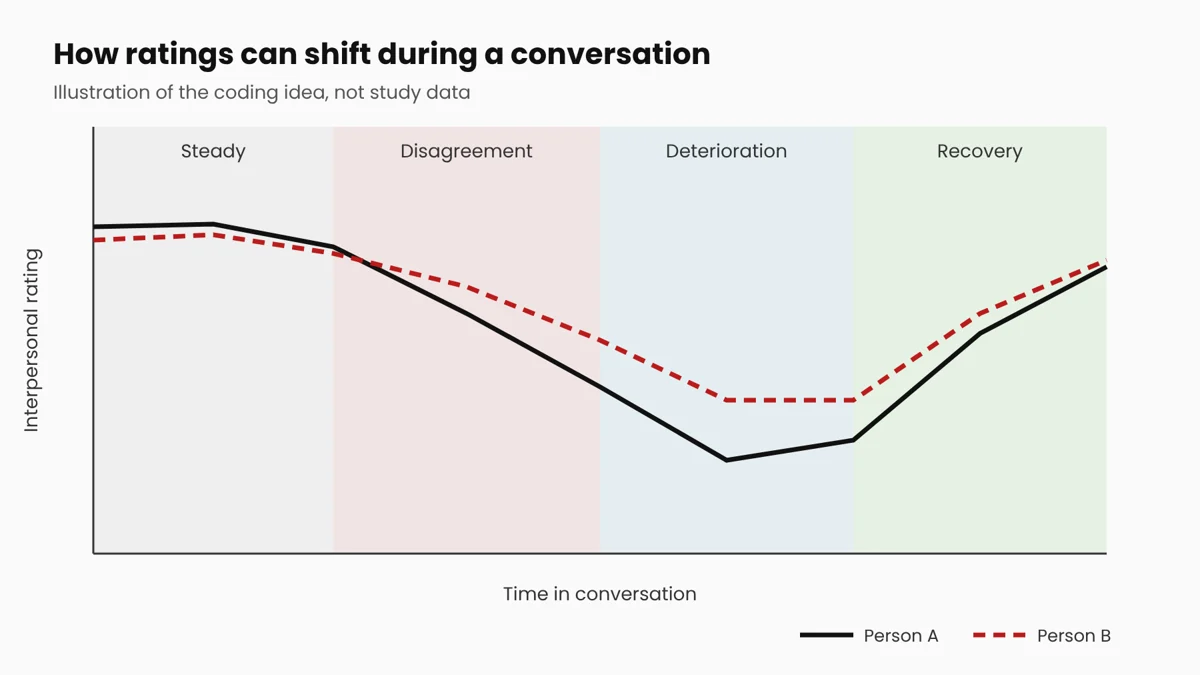
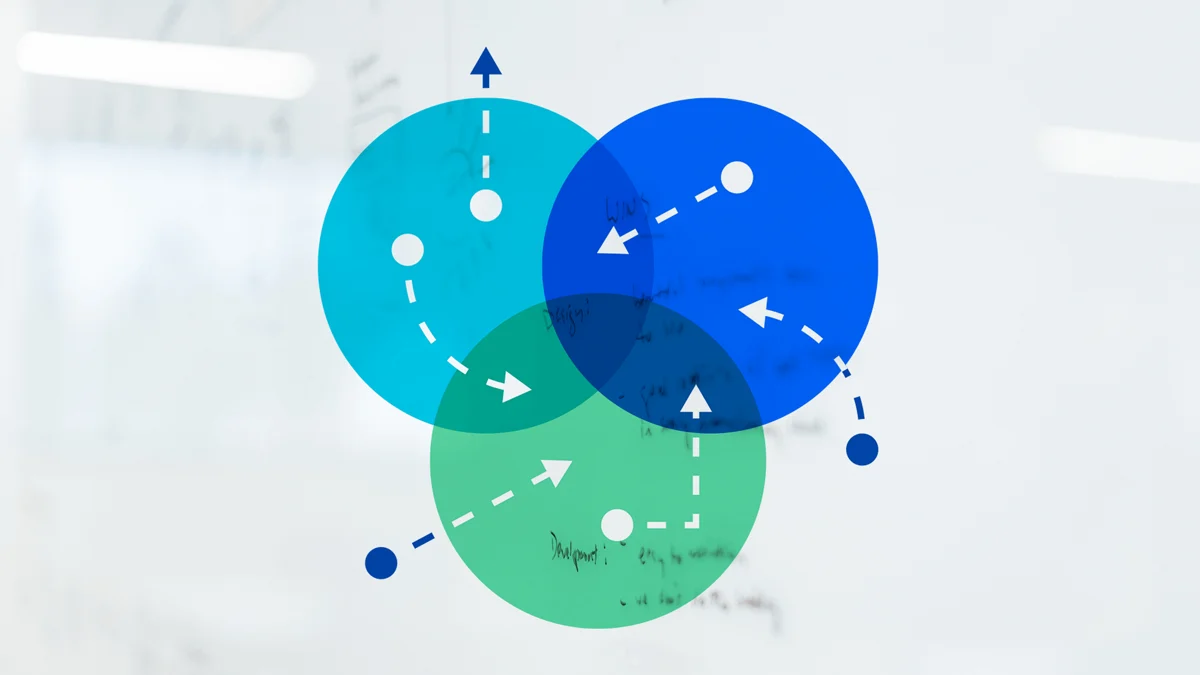
Add supplied images to experience cards (#30)

diff --git a/index.html b/index.html
@@ -17,7 +17,7 @@
 <link rel="preconnect" href="https://fonts.googleapis.com">
 <link rel="preconnect" href="https://fonts.gstatic.com" crossorigin>
 <link rel="stylesheet" href="https://fonts.googleapis.com/css2?family=Poppins:wght@300;400;500;600&amp;display=swap">
-<link rel="stylesheet" href="style.css?v=20261123s">
+<link rel="stylesheet" href="style.css?v=20261123t">
 <script type="application/ld+json">{"@context":"https://schema.org","@type":"Person","name":"Jemimah Osei","url":"https://jemimahosei.com/","image":"https://jemimahosei.com/assets/img/jemimah.webp","jobTitle":"Software engineer","alumniOf":{"@type":"CollegeOrUniversity","name":"Cornell University"},"sameAs":["https://www.linkedin.com/in/jemimaho/","https://github.com/Jemimahosei","https://devpost.com/Jemimahosei"]}</script>
 </head>
 <body>
@@ -117,7 +117,7 @@
 
 <section id="experience" class="sec">
 <h2 class="h2">My experience</h2>
-<div class="jobs"><div class="card job"><div class="jshot has-img"><img src="assets/img/hello.webp" width="900" height="540" loading="lazy" decoding="async" alt="The HELLO voucher robot on a small round table in the Cornell café lobby, with its tablet, printer and camera"></div><h3>Research intern</h3><div class="where">Cornell Tech, InterPlay Research Studio, Summer 2026</div><div class="bd"><p>On HELLO, I reviewed and annotated recorded interactions and wrote a Python script to extract relevant video clips using logged visits. This made it easier for researchers to navigate hours of footage and focus on specific interactions.</p><details class="rm"><summary><span class="o">Read more</span><span class="c">Read less</span></summary><p>HELLO is a research project investigating what happens when AI systems make mistakes during human interactions and how those interactions can be repaired. The team deployed a conversational robot in a public café setting to study how people's expectations change over repeated interactions, particularly when the robot misunderstands speech, fails to recognize someone, or responds in an unexpected way.</p></details></div></div><div class="card job"><div class="jshot has-img"><img src="assets/img/conflict-triad.webp" width="900" height="506" loading="lazy" decoding="async" alt="Illustrated chart of two people's ratings moving through steady, disagreement, deterioration and recovery phases"></div><h3>Research assistant, Interpersonal Perception and AI Mediation</h3><div class="where">Cornell University, InterPlay Research Studio, Fall 2026</div><div class="bd"><p>I review selected interactions and help develop a coding framework that connects interpersonal rating patterns to observable conversational behaviors. I'm also exploring how language models and multimodal features can help identify these patterns more systematically.</p><details class="rm"><summary><span class="o">Read more</span><span class="c">Read less</span></summary><p>I'm working on research exploring how AI can recognize and eventually help mediate conflict during group conversations. Our team studies how people's perceptions of one another change during two person and three person interactions. We use interpersonal rating data to identify patterns such as disagreement, deterioration, and recovery, then examine the corresponding video, audio, and transcripts to understand what happened during those moments. The longer term goal is to use this research to develop an AI mediator that can recognize emerging conflict and support more productive conversations.</p></details></div></div><div class="card job"><div class="jshot has-img"><img src="assets/img/nlp.webp" width="1280" height="720" loading="lazy" decoding="async" alt="Results table from the African languages paper"></div><h3>AI research intern</h3><div class="where">African Languages Lab, Summer 2025</div><div class="bd"><p>I used Python and regular expressions to clean and standardize multilingual data and supported research evaluating model performance across languages. I also contributed to a research paper involving 40 African languages.</p><details class="rm"><summary><span class="o">Read more</span><span class="c">Read less</span></summary><p>The research focused on improving how AI models perform across African languages, many of which have limited representation in existing language datasets. This experience helped me better understand how data preparation and language representation affect the performance of AI systems.</p></details></div></div><div class="card job"><div class="jshot has-img"><img src="assets/img/techlab.webp" width="1280" height="720" loading="lazy" decoding="async" alt="The Tech Lab Times news feed"></div><h3>Participant, Tech Lab on Campus</h3><div class="where">Bloomberg</div><div class="bd"><p>During Bloomberg's five hour Agile sprint, I worked on a full stack financial news application using Next.js, React, Flask, and Redis. I enjoyed the project enough to continue working on it after the event, eventually deploying it as The Tech Lab Times.</p><details class="rm"><summary><span class="o">Read more</span><span class="c">Read less</span></summary><p>The challenge was to build a functional application within a short timeframe while working through both frontend and backend development.</p></details></div></div><div class="card job"><div class="jshot"><span>Photo: leading a section</span></div><h3>Teaching assistant</h3><div class="where">INFO 4430: Teams and Technology, Cornell University, Fall 2026</div><div class="bd"><p>I lead a weekly discussion section of approximately 20 students, prepare activities, facilitate conversations, hold office hours, and grade assignments. A big part of the role involves helping students understand concepts related to teamwork, communication, and collaboration.</p><details class="rm"><summary><span class="o">Read more</span><span class="c">Read less</span></summary><p>It's also pushed me to become better at explaining my reasoning and working with people who approach problems differently.</p></details></div></div><div class="card job"><div class="jshot has-img"><img src="assets/img/opendoor.webp" width="1280" height="720" loading="lazy" decoding="async" alt="Open Door, the Center for Belonging newsletter platform"></div><h3>Software and data analyst</h3><div class="where">Cornell Center for Belonging</div><div class="bd"><p>I work on technical projects that help Cornell students discover and access campus resources. One of my main projects was building Open Door, a newsletter platform for the Center's outreach efforts.</p><details class="rm"><summary><span class="o">Read more</span><span class="c">Read less</span></summary><p>I've also supported student focused initiatives, including Code Afrique, which introduces high school students in Ghana to technology and programming.</p></details></div></div><div class="card job"><div class="jshot has-img"><img src="assets/img/nextgen.webp" width="900" height="506" loading="lazy" decoding="async" alt="AWS NextGen program card: keynote, fireside chat, panels, GenAI workshop, Builder Studios tour, networking"></div><h3>Participant, Cloud, Robotics and GenAI Immersion Program</h3><div class="where">Amazon Web Services NextGen, New York, October 2025</div><div class="bd"><p>I participated in an AWS immersion program in New York focused on cloud computing, robotics, and generative AI. Through technical workshops and demonstrations, I learned more about how these technologies are being developed and used in practice.</p></div></div><div class="card job"><div class="jshot has-img"><img src="assets/img/kormo.webp" width="800" height="450" loading="lazy" decoding="async" alt="Kormo Mela mobile app screens: home with service calendar, requests and job list"></div><h3>Hackathon participant</h3><div class="where">HackHarvard 2024 and BigRed//Hacks 2024</div><div class="bd"><p>At HackHarvard 2024, I worked on Kormo Mela, a marketplace that connects customers with verified blue collar service providers. At BigRed//Hacks 2024, I worked on the first version of Off Campus Compass, a platform that helps Cornell students navigate the off campus housing market.</p><details class="rm"><summary><span class="o">Read more</span><span class="c">Read less</span></summary><p>I enjoy hackathons because they challenge me to learn quickly, make technical decisions under time constraints, and work with others to turn an idea into something functional.</p></details></div></div><div class="card job"><div class="jshot"><span>Photo: a Girls Who Code class</span></div><h3>Volunteer instructor</h3><div class="where">Girls Who Code</div><div class="bd"><p>I teach Python and web development to high school students in Ithaca, helping them understand programming concepts, work through errors, and build confidence writing their own code. I enjoy being able to share what I've learned and help students become more comfortable experimenting with technology.</p></div></div><div class="card job"><div class="jshot"><span>Photo: the front help desk</span></div><h3>Assistant</h3><div class="where">Cornell Law Library</div><div class="bd"><p>I help students and staff troubleshoot technology issues involving computers, scanners, printers, and software. The role involves understanding what someone is trying to accomplish, identifying what's going wrong, and finding a practical solution.</p></div></div></div>
+<div class="jobs"><div class="card job"><div class="jshot has-img"><img src="assets/img/hello.webp" width="900" height="540" loading="lazy" decoding="async" alt="The HELLO voucher robot on a small round table in the Cornell café lobby, with its tablet, printer and camera"></div><h3>Research intern</h3><div class="where">Cornell Tech, InterPlay Research Studio, Summer 2026</div><div class="bd"><p>On HELLO, I reviewed and annotated recorded interactions and wrote a Python script to extract relevant video clips using logged visits. This made it easier for researchers to navigate hours of footage and focus on specific interactions.</p><details class="rm"><summary><span class="o">Read more</span><span class="c">Read less</span></summary><p>HELLO is a research project investigating what happens when AI systems make mistakes during human interactions and how those interactions can be repaired. The team deployed a conversational robot in a public café setting to study how people's expectations change over repeated interactions, particularly when the robot misunderstands speech, fails to recognize someone, or responds in an unexpected way.</p></details></div></div><div class="card job"><div class="jshot has-img"><img src="assets/img/conflict-triad.webp?v=2" width="900" height="506" loading="lazy" decoding="async" alt="Three overlapping circles with arrows, a diagram of interacting perspectives"></div><h3>Research assistant, Interpersonal Perception and AI Mediation</h3><div class="where">Cornell University, InterPlay Research Studio, Fall 2026</div><div class="bd"><p>I review selected interactions and help develop a coding framework that connects interpersonal rating patterns to observable conversational behaviors. I'm also exploring how language models and multimodal features can help identify these patterns more systematically.</p><details class="rm"><summary><span class="o">Read more</span><span class="c">Read less</span></summary><p>I'm working on research exploring how AI can recognize and eventually help mediate conflict during group conversations. Our team studies how people's perceptions of one another change during two person and three person interactions. We use interpersonal rating data to identify patterns such as disagreement, deterioration, and recovery, then examine the corresponding video, audio, and transcripts to understand what happened during those moments. The longer term goal is to use this research to develop an AI mediator that can recognize emerging conflict and support more productive conversations.</p></details></div></div><div class="card job"><div class="jshot has-img"><img src="assets/img/nlp.webp" width="1280" height="720" loading="lazy" decoding="async" alt="Results table from the African languages paper"></div><h3>AI research intern</h3><div class="where">African Languages Lab, Summer 2025</div><div class="bd"><p>I used Python and regular expressions to clean and standardize multilingual data and supported research evaluating model performance across languages. I also contributed to a research paper involving 40 African languages.</p><details class="rm"><summary><span class="o">Read more</span><span class="c">Read less</span></summary><p>The research focused on improving how AI models perform across African languages, many of which have limited representation in existing language datasets. This experience helped me better understand how data preparation and language representation affect the performance of AI systems.</p></details></div></div><div class="card job"><div class="jshot has-img"><img src="assets/img/techlab.webp" width="1280" height="720" loading="lazy" decoding="async" alt="The Tech Lab Times news feed"></div><h3>Participant, Tech Lab on Campus</h3><div class="where">Bloomberg</div><div class="bd"><p>During Bloomberg's five hour Agile sprint, I worked on a full stack financial news application using Next.js, React, Flask, and Redis. I enjoyed the project enough to continue working on it after the event, eventually deploying it as The Tech Lab Times.</p><details class="rm"><summary><span class="o">Read more</span><span class="c">Read less</span></summary><p>The challenge was to build a functional application within a short timeframe while working through both frontend and backend development.</p></details></div></div><div class="card job"><div class="jshot has-img"><img src="assets/img/info-logo.webp" width="900" height="506" loading="lazy" decoding="async" alt="Cornell Bowers CIS Information Science logo"></div><h3>Teaching assistant</h3><div class="where">INFO 4430: Teams and Technology, Cornell University, Fall 2026</div><div class="bd"><p>I lead a weekly discussion section of approximately 20 students, prepare activities, facilitate conversations, hold office hours, and grade assignments. A big part of the role involves helping students understand concepts related to teamwork, communication, and collaboration.</p><details class="rm"><summary><span class="o">Read more</span><span class="c">Read less</span></summary><p>It's also pushed me to become better at explaining my reasoning and working with people who approach problems differently.</p></details></div></div><div class="card job"><div class="jshot has-img"><img src="assets/img/opendoor.webp" width="1280" height="720" loading="lazy" decoding="async" alt="Open Door, the Center for Belonging newsletter platform"></div><h3>Software and data analyst</h3><div class="where">Cornell Center for Belonging</div><div class="bd"><p>I work on technical projects that help Cornell students discover and access campus resources. One of my main projects was building Open Door, a newsletter platform for the Center's outreach efforts.</p><details class="rm"><summary><span class="o">Read more</span><span class="c">Read less</span></summary><p>I've also supported student focused initiatives, including Code Afrique, which introduces high school students in Ghana to technology and programming.</p></details></div></div><div class="card job"><div class="jshot has-img"><img src="assets/img/nextgen.webp?v=2" width="900" height="506" loading="lazy" decoding="async" alt="AWS logo"></div><h3>Participant, Cloud, Robotics and GenAI Immersion Program</h3><div class="where">Amazon Web Services NextGen, New York, October 2025</div><div class="bd"><p>I participated in an AWS immersion program in New York focused on cloud computing, robotics, and generative AI. Through technical workshops and demonstrations, I learned more about how these technologies are being developed and used in practice.</p></div></div><div class="card job"><div class="jshot has-img"><img src="assets/img/kormo.webp" width="800" height="450" loading="lazy" decoding="async" alt="Kormo Mela mobile app screens: home with service calendar, requests and job list"></div><h3>Hackathon participant</h3><div class="where">HackHarvard 2024 and BigRed//Hacks 2024</div><div class="bd"><p>At HackHarvard 2024, I worked on Kormo Mela, a marketplace that connects customers with verified blue collar service providers. At BigRed//Hacks 2024, I worked on the first version of Off Campus Compass, a platform that helps Cornell students navigate the off campus housing market.</p><details class="rm"><summary><span class="o">Read more</span><span class="c">Read less</span></summary><p>I enjoy hackathons because they challenge me to learn quickly, make technical decisions under time constraints, and work with others to turn an idea into something functional.</p></details></div></div><div class="card job"><div class="jshot has-img"><img src="assets/img/gwc.webp" width="900" height="506" loading="lazy" decoding="async" alt="Girls Who Code logo"></div><h3>Volunteer instructor</h3><div class="where">Girls Who Code</div><div class="bd"><p>I teach Python and web development to high school students in Ithaca, helping them understand programming concepts, work through errors, and build confidence writing their own code. I enjoy being able to share what I've learned and help students become more comfortable experimenting with technology.</p></div></div><div class="card job"><div class="jshot has-img"><img src="assets/img/lawlib.webp" width="900" height="506" loading="lazy" decoding="async" alt="The Cornell Law Library reading room with long wooden tables and bookshelves"></div><h3>Assistant</h3><div class="where">Cornell Law Library</div><div class="bd"><p>I help students and staff troubleshoot technology issues involving computers, scanners, printers, and software. The role involves understanding what someone is trying to accomplish, identifying what's going wrong, and finding a practical solution.</p></div></div></div>
 <div class="duo">
 <div class="card box"><h3>Skills</h3><p><strong>Programming languages</strong><br>Python, Java, TypeScript, JavaScript, R, SQL, HTML, CSS<br><strong>Frontend</strong><br>React, Next.js, Svelte, Material UI<br><strong>Backend</strong><br>Django, Django REST Framework, Spring Boot, Flask, FastAPI, Express, REST APIs<br><strong>Databases</strong><br>PostgreSQL, MongoDB, Redis<br><strong>Development tools</strong><br>Git, Docker, AWS, Agile, Scrum<br><strong>AI and data</strong><br>Machine Learning, NLP, LLM Applications, Data Processing, Model Benchmarking, Statistical Analysis<br><strong>Research and design</strong><br>User Research, Usability Testing, Qualitative Analysis, Prototyping</p></div>
 <div class="card box"><h3>Education</h3><p><strong>Cornell University</strong><br><strong>Bachelor of Science in Information Science</strong><br>Concentrations: <strong>Data Science and Artificial Intelligence</strong><br>Expected graduation: <strong>May 2027</strong></p></div>
